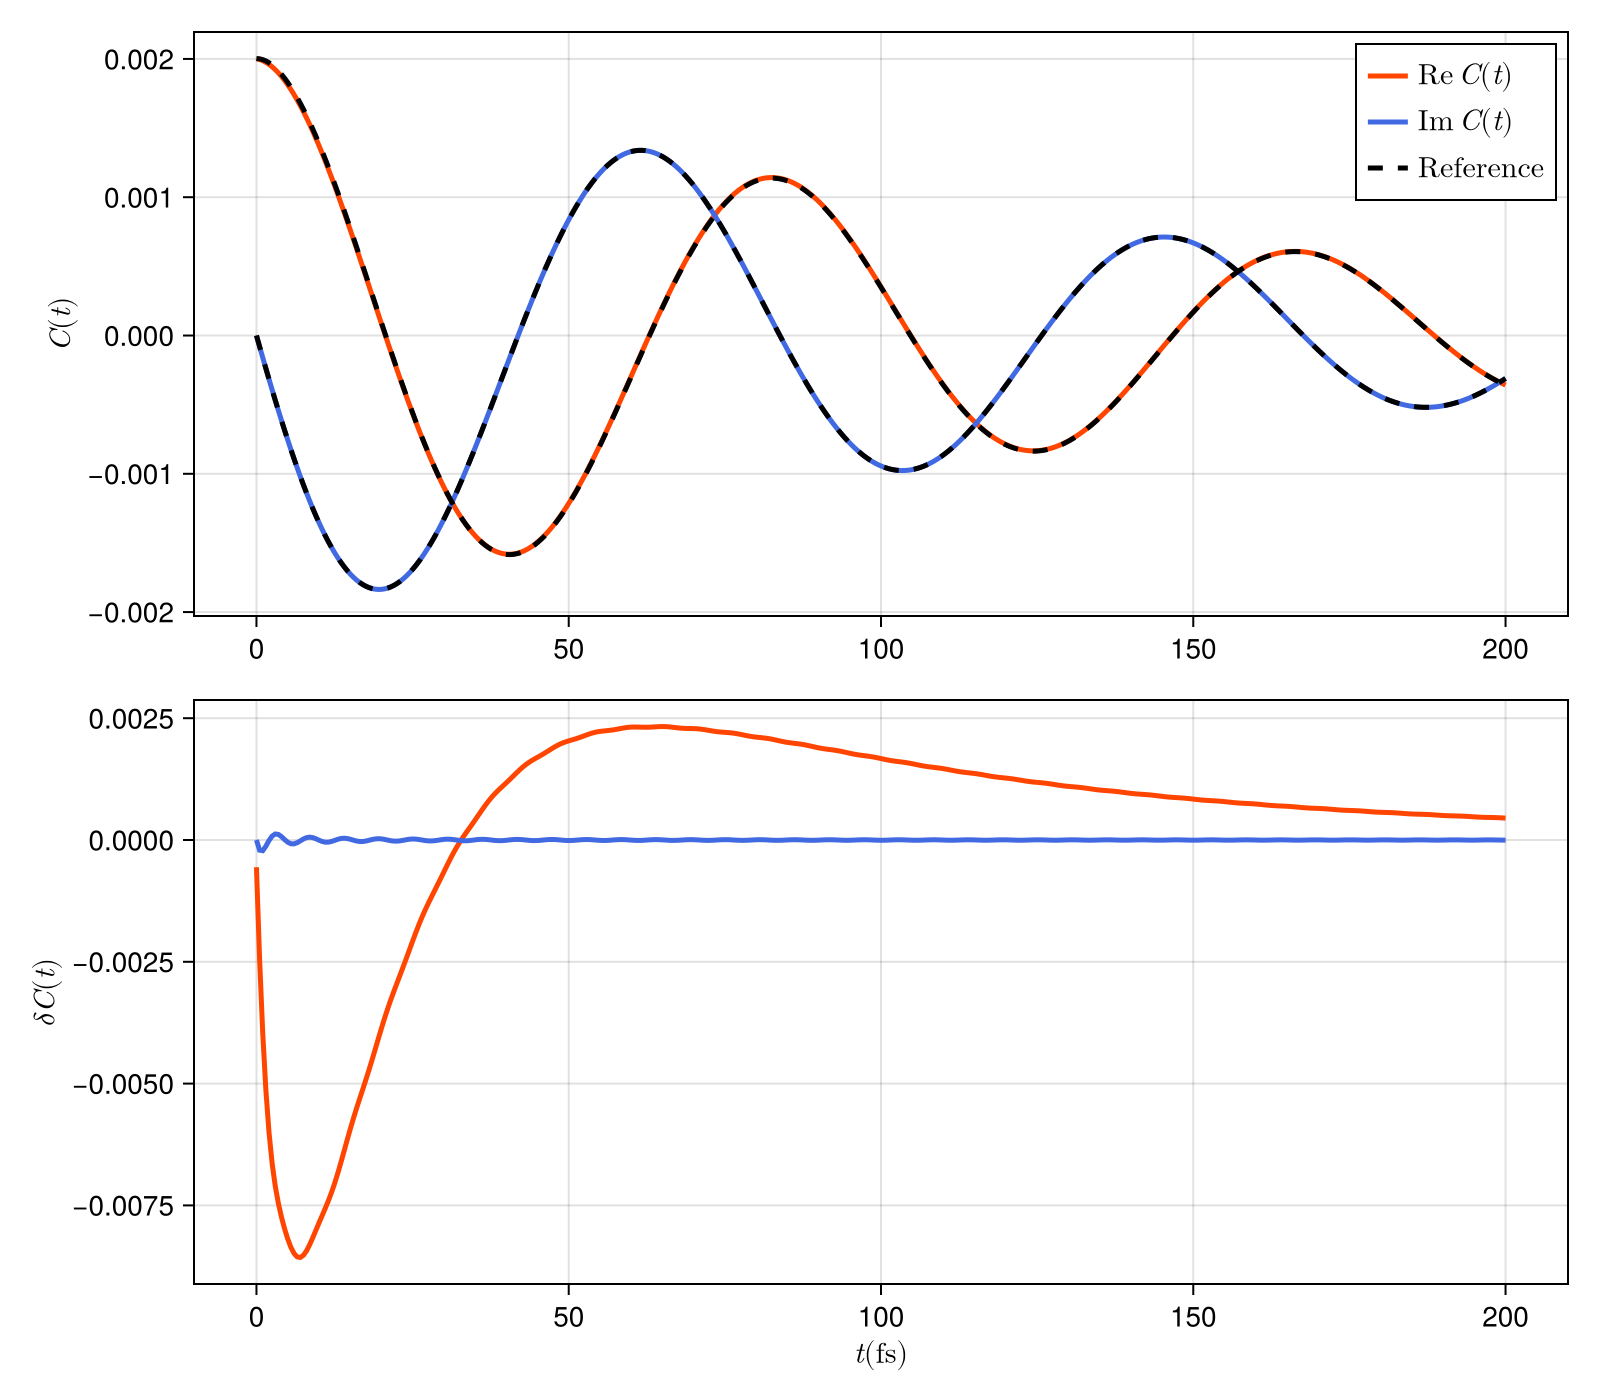
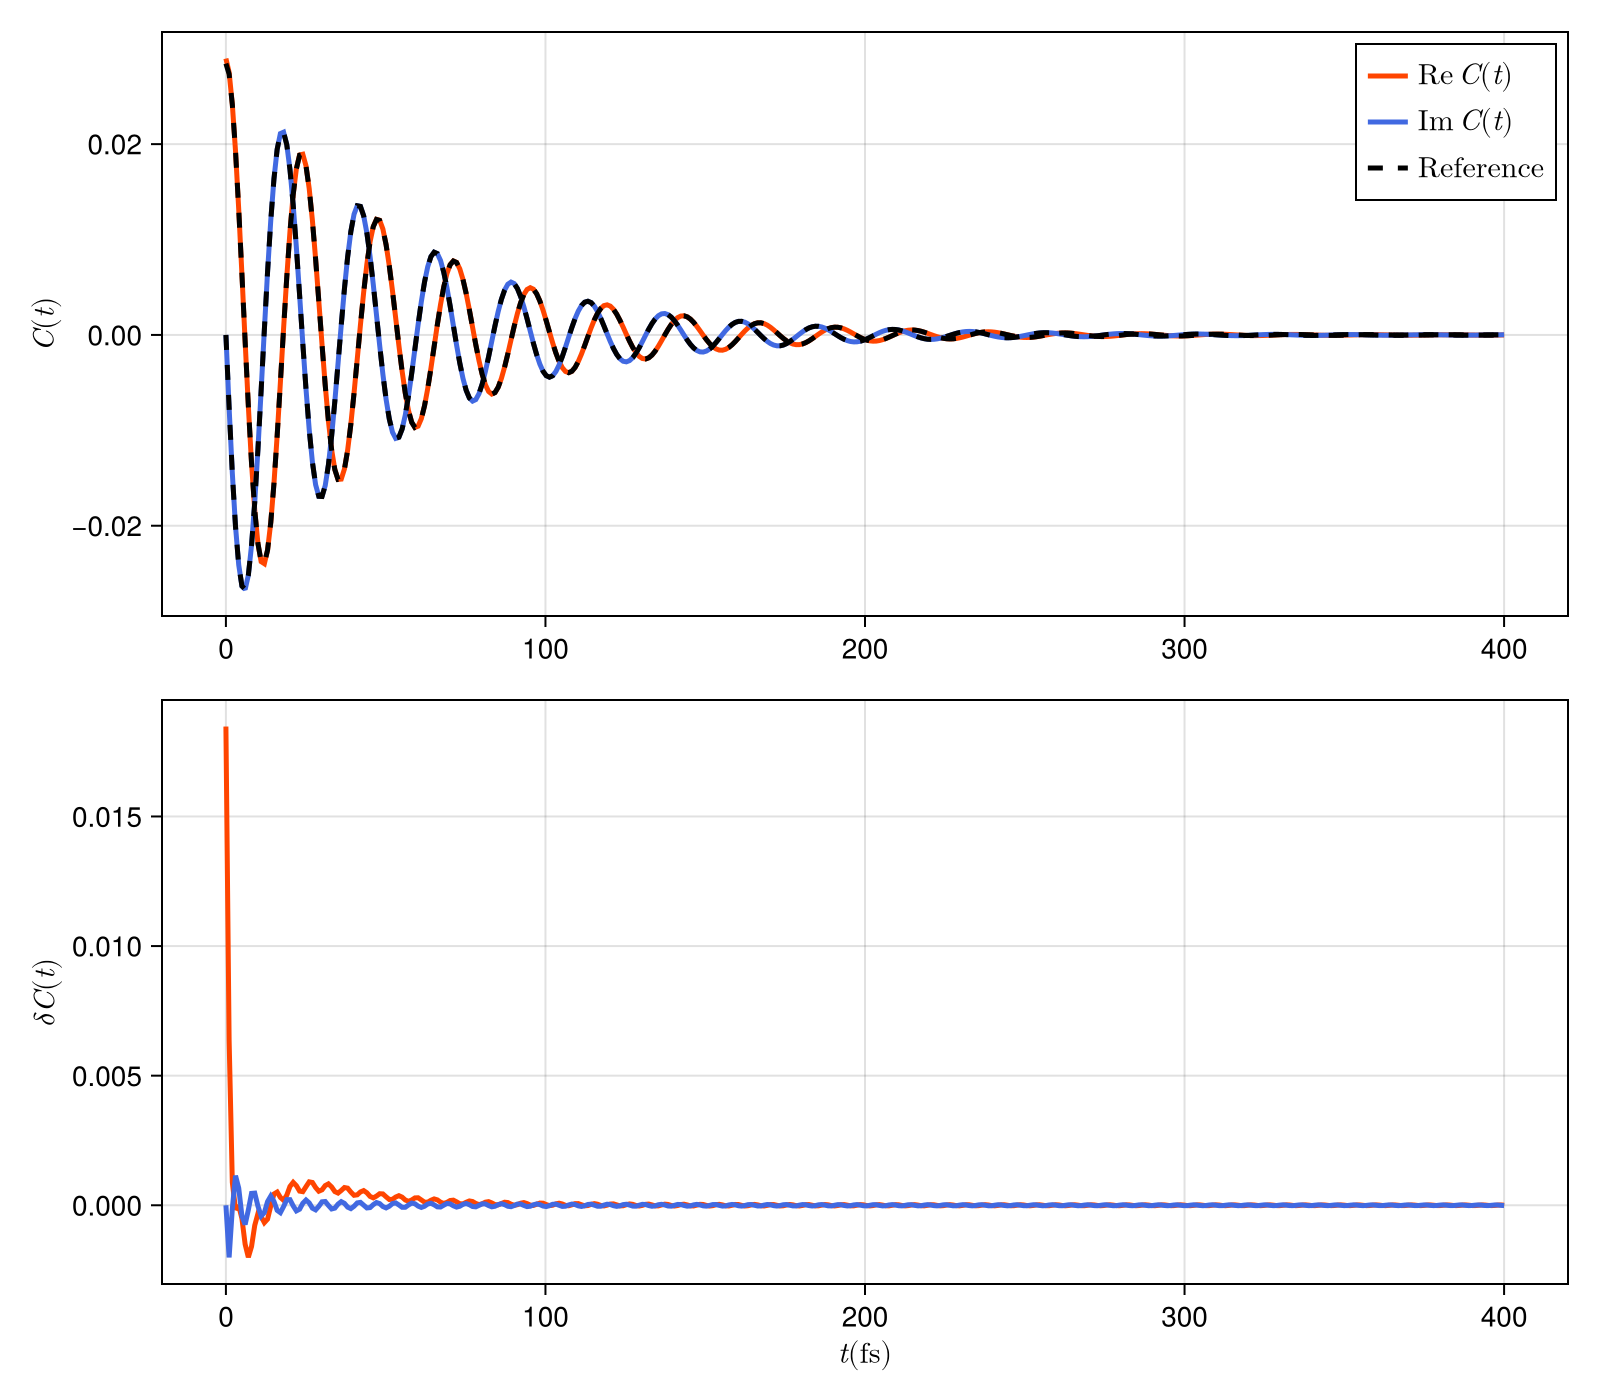
update sumsd

diff --git a/docs/src/decomp.md b/docs/src/decomp.md
@@ -1,0 +1,18 @@
+# Decomposition Methods
+
+```math
+C(t)=\sum_k c_k \mathrm{e}^{-\gamma_k t}
+```
+
+## Exponential Fitting to BCF
+
+ExpFit.jl library, which is a part of our package.
+
+## Truncated Padé Spectral Decomposition
+
+Padé spectral decomposition (PSD) is often employed to decompose Bose-Einstein distribution into a sum of Lorentzian functions
+
+```math
+\coth(\frac{\beta\hbar\omega}{2}) + 1 = \frac{2}{\beta\hbar\omega} + 1 + \frac{2}{\beta\hbar}\sum_{k=1}^N \frac{2\eta_k\omega}{\omega^2+\nu_k^2}
+```
+
